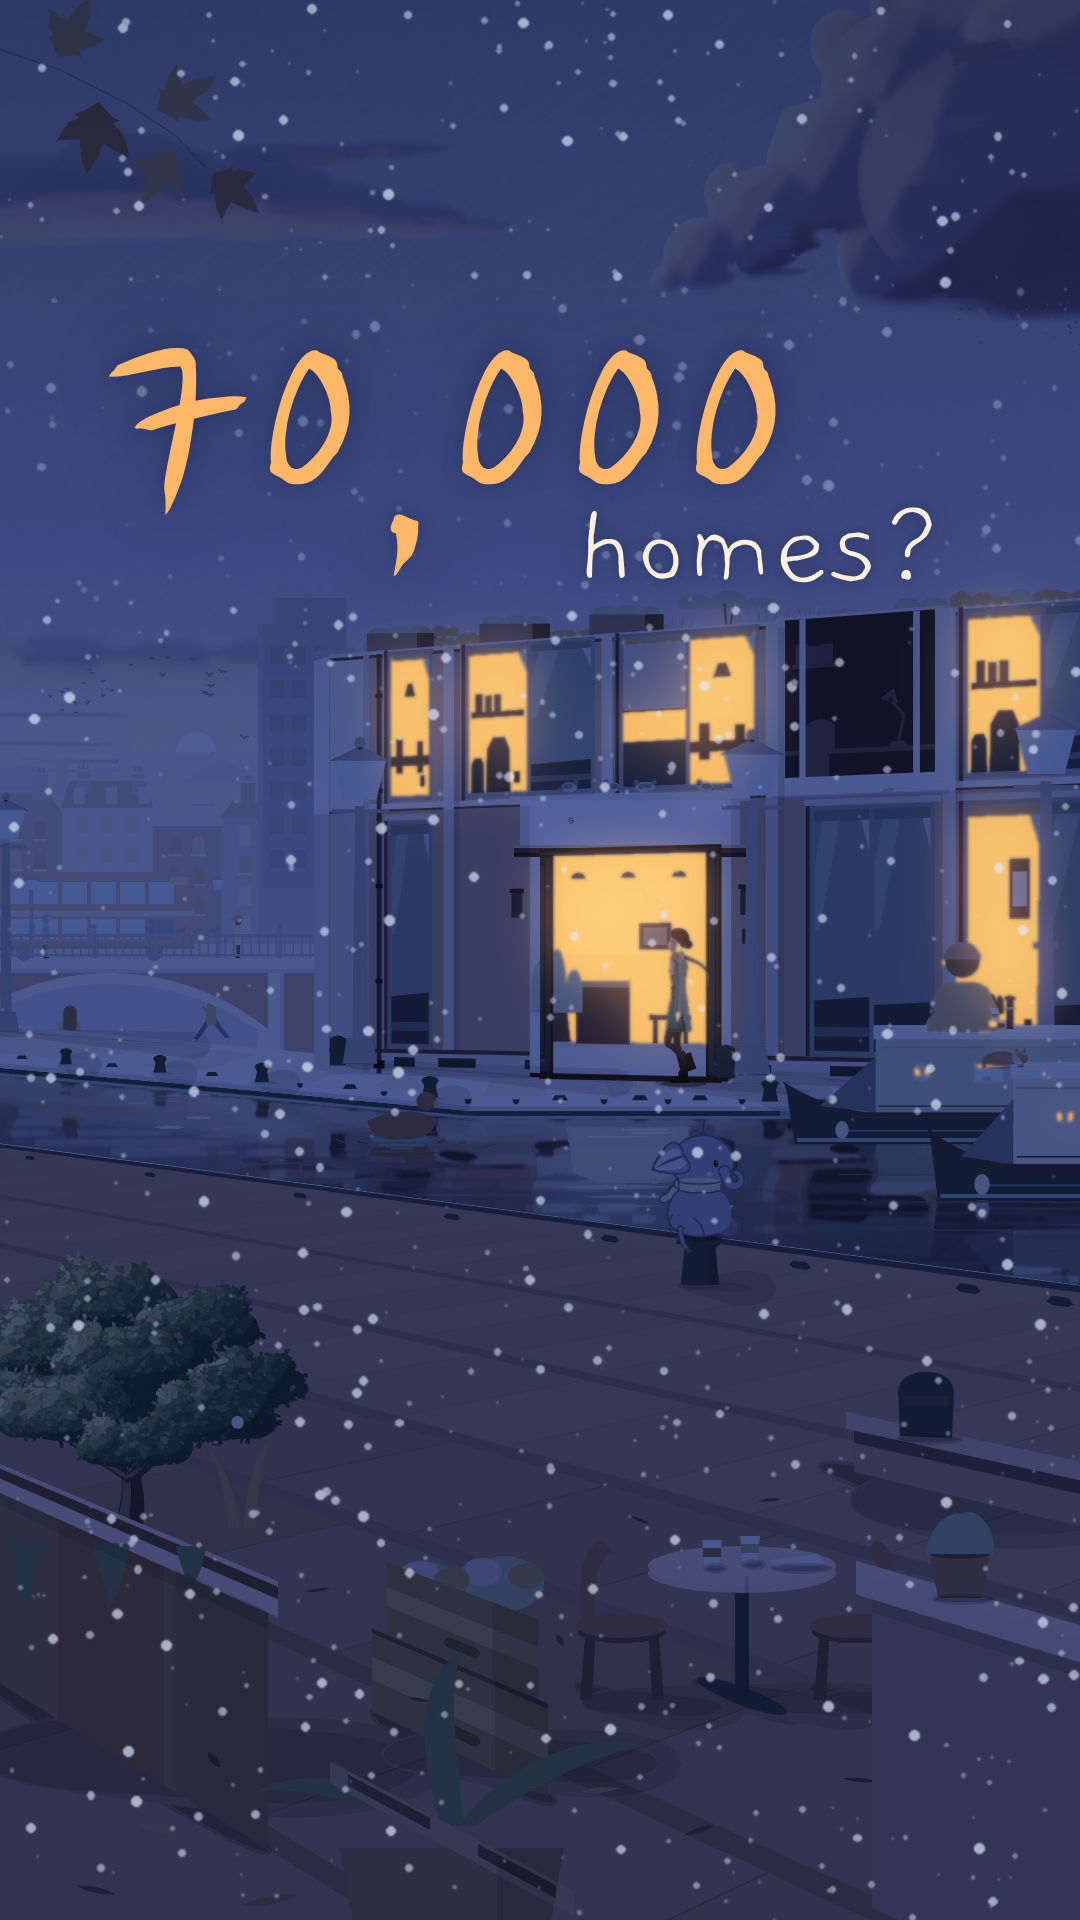
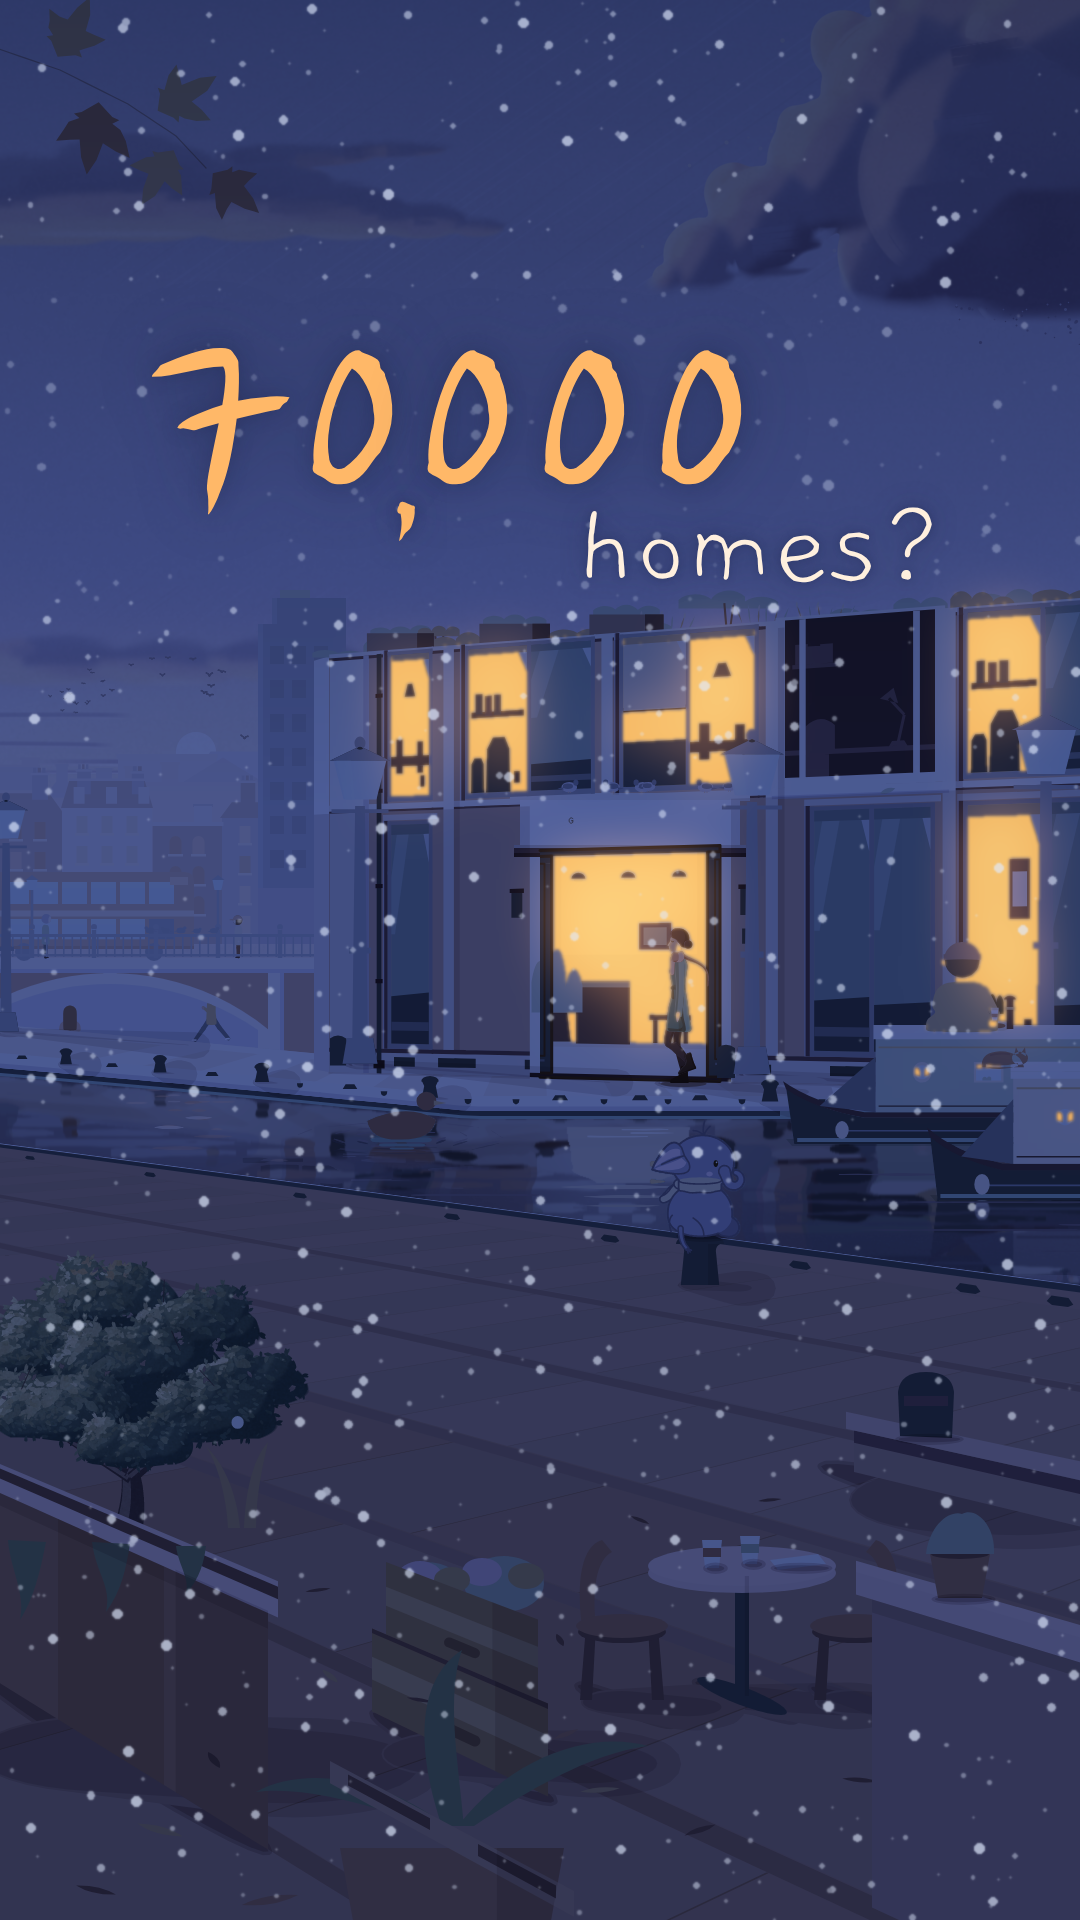
Type iteration: the agents' final guide, research and 14 stills; still 06's brush comma tucked in so "70,000" reads as one number (guide §i, STILLS.md, contact sheet rebuilt)
Claude-Session: https://claude.ai/code/session_01VwsUCnkJXFuq3YwEYFUg7o

Changed region(s): [[0.3972, 0.1562, 0.7333, 0.25], [0.0917, 0.1562, 0.3667, 0.2812], [0.3667, 0.25, 0.3972, 0.3125]]

diff --git a/video/scripts/type/stills/06_R3_big_number.html b/video/scripts/type/stills/06_R3_big_number.html
@@ -6,7 +6,11 @@
 // "70,000" pops 2.300 s (frame 138), "homes?" builds 3.383 s (frame 203), both on to 4.233 s
 window.__ready = TYPE.run(() => {
   const S = TYPE.stage(), tone = 'night';
-  TYPE.text(S, {t: '70,000', x: 440, y: 480, anchor: 'middle', role: 'brush', size: 300, tone, accent: true});
+  // the brush's own comma is wide with a long tail ("70 , 000" at a glance): the figures set as "70", a smaller comma
+  // tucked against them, then "000", the whole number centred near x 440 as before
+  const a = TYPE.text(S, {t: '70', x: 150, y: 480, anchor: 'start', role: 'brush', size: 300, tone, accent: true});
+  const c = TYPE.text(S, {t: ',', x: a.x1 + 8, y: 480, anchor: 'start', role: 'brush', size: 190, tone, accent: true});
+  TYPE.text(S, {t: '000', x: c.x1 + 14, y: 480, anchor: 'start', role: 'brush', size: 300, tone, accent: true});
   TYPE.text(S, {t: 'homes?', x: 930, y: 578, anchor: 'end', role: 'hand', size: 116, tone});
 });
 </script></body></html>

diff --git a/video/docs/look/TYPE_GUIDE.md b/video/docs/look/TYPE_GUIDE.md
@@ -261,9 +261,9 @@ Each example uses video 4's real words and times; a frame number is t x 60.
 - **`LAYOUT.md` §1, the "caption block (the ink)" row:** replace "Patrick Hand 98 px, baselines 387 / 510 (one line
   448), centred on x 520 (left of centre: clear of the rail), <= 850 px wide, <= 2 lines of ~20 characters; highlight
   boxes reach y 299" with "the words (`TYPE_GUIDE.md`): the hand (Gaegu 300 / 400) 116 px, baselines 395 / 515 (one
-  line 455), group centre on a seat x 440 / 520 / 600, a line <= 830 px, <= 2 baselines; a landing-word lockup at 365 /
-  495 / 598 (the brush, Nanum Brush Script 200 px); a number at 500 (260 px) over its unit at 600; no boxes; ink
-  inside y 290-610 in the band". Add a row **"type frame | y 290-1250; x 96-944 above y 840, x 96-860 below; ads x
+  line 455), group centre on a seat x 440 / 520 / 600, a line <= 830 px, <= 2 baselines; a landing-word lockup at 362 /
+  484 / 578 (the brush, Nanum Brush Script 184 px); a number at 480 (300 px) over its unit at 578; no boxes; ink
+  inside y 290-585 in the band". Add a row **"type frame | y 290-1250; x 96-944 above y 840, x 96-860 below; ads x
   120-888, y 288-1248, x <= 780 below y 840"**. In the row's rules, "ink >= 7:1 on its field" becomes ">= 4.5:1 for
   running words (7:1 where the sky allows), >= 3:1 for the brush". §5 (the cover): "the title in the caption type with
   the peach box on its key words" becomes "the core line in the hand with its key word in the brush, in the film's
@@ -288,26 +288,28 @@ Each example uses video 4's real words and times; a frame number is t x 60.
 ## h. THE STILL LIST (for job 2)
 All 1080 x 1920 with `scripts/type/render.mjs` (`--phone --ui`), backgrounds `{{BG_NIGHT}}` (video 4's key) and
 `{{BG_DUSK}}` (the light sky, for dark ink). The backgrounds are wides, so every still stands in for its shot's
-placement; never invent a new picture beyond what a note asks. Sizes, seats and times are §b-§e's.
+placement; never invent a new picture beyond what a note asks. Sizes, seats and times are §b-§e's. Rendered: the pages
+`scripts/type/stills/NN_*.html` (`bash scripts/type/stills/render_all.sh`), the results in `docs/look/type/stills/`
+(`STILLS.md`, `contact_sheet.jpg`).
 
 1. **BEFORE (our captions now).** S7 at 24.10 s: "But Helsinki / WANTS that heat." · Patrick Hand 98 px, umber
    #2B1B0A, two centred lines on x 520 at baselines 387 / 510, the peach box #F6B892 behind "WANTS" (square, 0.19 em
    padding, the word ink on peach) · `{{BG_DUSK}}` · Look at: how heavy and boxed it is, and the fixed band.
-2. **AFTER, the same moment: R4 the landing word.** "But Helsinki" (hand 400, 116 px, umber, baseline 365, from x
-   130) / **"WANTS"** (brush 200 px, burnt #8E3A12, baseline 495, from x 260) / "that heat." (hand, baseline 598,
-   right-aligned near x 920) · `{{BG_DUSK}}` · Look at: one painted word carrying the turn; compare with still 1.
+2. **AFTER, the same moment: R4 the landing word.** S7 at 24.70 s (all three rows on): "But Helsinki" (hand 400, 116
+   px, umber, baseline 362, from x 130) / **"WANTS"** (brush 184 px, burnt #8E3A12, baseline 484, from x 260) / "that
+   heat." (hand, baseline 578, right-aligned near x 920) · `{{BG_DUSK}}` · Look at: one painted word carrying the turn; compare with still 1.
 3. **THE HAND, three ways.** S2 at 4.50 s: "AI actually runs" in three bands of one still (each a 1080 x 600 crop of the
    band region, labelled small at the bottom-left), at one x-height (~45 px): Gaegu 300 116 px · Mali 300 90 px · Zen
    Kurenaido 400 106 px; warm white with the halo · `{{BG_NIGHT}}` · Look at: which hand feels like ours, and "AI"
    reading as "Al" in Zen Kurenaido.
-4. **R1 the everyday caption.** S2 at 6.00 s: "on giant / computers," (two baselines 395 / 515, line 1 from x 300,
-   line 2 from x 400, seat C), Gaegu 300 116 px, #FFF0DE, halo · `{{BG_NIGHT}}` · Look at: light and airy, yet read at a
+4. **R1 the everyday caption.** S2 at 6.00 s: "on giant / computers," (two baselines 395 / 515, line 1 from x 131,
+   line 2 from x 231, seat L), Gaegu 300 116 px, #FFF0DE, halo · `{{BG_NIGHT}}` · Look at: light and airy, yet read at a
    glance on the phone preview; the default look of most of the film.
 5. **R2 the hook.** S1 at 0.70 s: "Did you know" (line 1, from x 120, baseline 395) / "Helsinki" (line 2, from x
    400, baseline 525), Gaegu 300 136 px, #FFF0DE (frame 0 shows line 1 alone in the same place) · `{{BG_NIGHT}}` · Look
    at: big enough to stop a thumb, still calm.
-6. **R3 the big number.** S1 at 3.60 s: **"70,000"** (brush 260 px, amber #FFB868, baseline 500, centred near x 470)
-   over "homes?" (hand 116 px, baseline 600, right edge x ~900) · `{{BG_NIGHT}}` (its amber windows echo the figures)
+6. **R3 the big number.** S1 at 3.60 s: **"70,000"** (brush 300 px, amber #FFB868, baseline 480, centred near x 440)
+   over "homes?" (hand 116 px, baseline 578, right edge x ~930) · `{{BG_NIGHT}}` (its amber windows echo the figures)
    · Look at: the number reads first and feels part of the lit city.
 7. **R5 the tint, the same moment as still 2.** S7 at 24.70 s: the same three rows and positions as still 2, but
    "WANTS" in the hand (400, 116 px) tinted burnt #8E3A12 instead of the brush · `{{BG_DUSK}}` · Look at: stills 2 and
@@ -317,20 +319,46 @@ placement; never invent a new picture beyond what a note asks. Sizes, seats and 
    manner, words lettered into the open sky, the big last word.
 9. **R7 the word in the world.** S8 at 27.70 s: a small cream paper tag (~280 x 170 px, a slight swing angle of 3-4°,
    a pin, a soft contact shadow) on the lit building's facade near the doorway's top, on it **"2027"** in the brush
-   (umber, figures ~120 px tall); above in the band the caption "starting / next year." (R1, seat C) · `{{BG_NIGHT}}` ·
+   (umber, 148 px: figures ~66 px tall, fitted to the tag); above in the band the caption "starting / next year." (R1, seat C) · `{{BG_NIGHT}}` ·
    Look at: the year belongs to the place; the caption and the tag share the frame without repeating each other.
-10. **R9 the payoff.** S12 at 40.00 s: "So your chatbot" (hand 116, baseline 365, from x 130) / "could soon" (baseline
-    470, from x ~220) / **"heat"** (brush 200 px, amber, baseline 600, right-aligned near x 900) · `{{BG_NIGHT}}` ·
+10. **R9 the payoff.** S12 at 40.00 s: "So your chatbot" (hand 116, baseline 390, from x 110) / "could soon" + **"heat"**
+    (row 2, baseline 545, from x 120; "heat" brush 184 px, amber, 50 px after "soon", at its swell's peak 1.04) · `{{BG_NIGHT}}` ·
     Look at: the core line landing on its one warm word.
-11. **R10 the cover.** The cover: "Your chatbot / could **heat** / an apartment / in Helsinki." (hand 300, 120 px;
-    "heat" brush 260 px amber; ragged, stepped, left edge x ~110) on `{{BG_NIGHT}}` shifted down ~180 px (the sky
+11. **R10 the cover.** The cover: "Your chatbot / could **heat** / an apartment / in Helsinki." (hand 300, 112 px;
+    "heat" brush 250 px amber; ragged, stepped, left edge x ~110, baselines 365 / 530 / 624 / 733) on `{{BG_NIGHT}}` shifted down ~180 px (the sky
     extended at the top in its own colour, so the open sky reaches y ~780, standing in for a cover frame composed with
     more sky); no captions · also judge it at 360 px wide · Look at: one series look on the grid; read at tile size.
-12. **R10 in the posters' caps (the comparison).** The same cover in Jost 300 ALL CAPS, +12 % tracking, warm white
-    #FFF0DE, centred rows sized to fit x 96-944 ("YOUR CHATBOT / COULD HEAT / AN APARTMENT / IN HELSINKI."),
+12. **R10 in the posters' caps (the comparison).** The same cover in Jost 300 96 px ALL CAPS, +12 % tracking, warm white
+    #FFF0DE, centred rows (baselines 375 / 500 / 625 / 750) inside x 96-944 ("YOUR CHATBOT / COULD HEAT / AN APARTMENT / IN HELSINKI."),
     "HEAT" in amber · the same shifted `{{BG_NIGHT}}` · Look at: stills 11 and 12: the painted hand or the posters'
     geometric caps.
 13. **Three groups in a row (the seats walking).** S2, 4.50 / 6.00 / 7.00 / 8.00 s as four 540 x 960 frames in a 2 x 2
-    grid on one still: "AI actually runs" (seat L) · "on giant / computers," (seat C) · "in buildings / called" (seat
-    R) · "data centers." (seat C), R1 throughout · `{{BG_NIGHT}}` · Look at: alive but steady: the words move less than
-    220 px, so the eye never hunts.
+    grid on one still: "AI actually runs" (seat C: at 789 px it fits no other) · "on giant / computers," (seat L) ·
+    "in buildings / called" (seat R) · "data centers." (seat C), R1 throughout · `{{BG_NIGHT}}` · Look at: alive but
+    steady: the words move less than 220 px, so the eye never hunts.
+14. **R4's brush write-on, mid-stroke (added by the stills, for RESEARCH open question 3).** S7 at 24.10 s: "But
+    Helsinki" (row 1, as still 2) and **"WANTS"** 7.6 of its 12 frames in (70 % painted after ease-in-out: "WAN" and the
+    T's first stroke), the paint advancing left to right behind a dry brush edge (an approximation: the real write-on
+    follows each letter's strokes); "that heat." not yet on · `{{BG_DUSK}}` · Look at: painted, or the clipped reveal
+    the owner ruled out?
+
+## i. Changes from the stills (2026-10-30, job 2: looked at on the phone preview and under the UI)
+- **The brush's comma** (the orchestrator, after the run): Nanum Brush Script's comma is wide with a long tail, so
+  "70,000" read "70 , 000" at a glance; R3 sets a number's comma in the brush at ~0.63 of the figures' size, tucked
+  8-14 px from the figures on each side (still 06).
+- **The band's floor:** ink stays at y <= 585, not 610: the third rows at 598-600 (R3, R4, R9) sat on the roofline
+  (~590-600) at phone size. R4's lockup moved to baselines 362 / 484 / 578 and its brush to 184 px (1.6x the hand;
+  three rows with a 200-px brush need ~330 px, the band has ~295); R3's figures to 480, its unit word to 578.
+- **The brush's real size:** its figures are 0.45 em, so 260 px gave 118-px figures (not ~165) and the number did not
+  read first: R3 is now 300 px (figures ~136 px), centred near x 440 with the unit word's edge at x ~930, so the
+  brush comma's long tail stays clear of "homes?". A world word is 140-160 px (LAYOUT's "one number 120-160 px" is a
+  font size): "2027" at 148 px (figures ~66 px) fits the ~280 x 170 tag and reads at phone size.
+- **R9 is two rows** (390 / 545, "heat" last on row 2): with three rows the brush word sat on the roof, and lifting it
+  ran its tall "h" into "soon".
+- **Seats:** "AI actually runs" (789 px) fits only seat C inside x 96-944 (at seat L its ink began at x 46), so the walk
+  is C, L, R, C and R1's example ("on giant / computers,") sits on seat L, from x 131 / 231; the old "from x 300 / 400"
+  centred the group at x ~610, not seat C.
+- **R6:** a 0.48 em space before "tea." (at 0.3 em, "of" and "tea." ran together on the phone).
+- **R10:** the cover stack shrank a step (the hand 112 px, the brush 250 px; the caps 96 px) so all four rows sit in the
+  open sky above the roofs (y ~780 on the shifted frame).
+- **Still 14 added:** the brush write-on mid-stroke, so open question 3 is judged on a picture.

diff --git a/video/scripts/type/README.md b/video/scripts/type/README.md
@@ -7,17 +7,24 @@ frames, with a phone-size preview and a platform-UI overlay, so a recipe is judg
 |---|---|
 | `fonts.json` | the candidate fonts (@fontsource slugs: Google Fonts, OFL or Apache), grouped hand / script / display |
 | `fetch_fonts.py` | downloads them into `.fonts/<slug>/` (latin woff2, metadata, licence; gitignored) and writes `.fonts/index.json`; `--list` prints each family's CSS name and weights; `python3 scripts/type/fetch_fonts.py <slug>` adds one (put it in fonts.json too) |
-| `backgrounds.py` | makes `bg/bg_dusk.png` (the latest look still, scene-1 painter v6, with its burned-in caption painted out) and `bg/bg_night.png` (the same re-graded to video 4's key: a cold blue snowy night, warm windows); stand-ins until video 4's art exists, never film assets |
-| `render.mjs` | HTML page or JSON spec -> PNG at 1080 x 1920 (Node + the pre-installed Playwright); every cached font is declared, so CSS just names the family; `--phone` writes `<out>_phone.jpg` (360 px wide), `--ui` writes `<out>_ui.jpg` (a generic app UI over the frame at our zones: top y < 180, bottom y > 1520, right rail x > 950 at y 900-1500), `--zones` tints those zones red |
+| `backgrounds.py` | makes `bg/bg_dusk.png` (the latest look still, scene-1 painter v6, with its burned-in caption painted out), `bg/bg_night.png` (the same re-graded to video 4's key: a cold blue snowy night, warm windows) and `bg/bg_night_cover.png` (the night frame shifted down 180 px, the cut leaves painted out, the sky extended above: a cover frame with more sky); stand-ins until video 4's art exists, never film assets |
+| `render.mjs` | HTML page or JSON spec -> PNG at 1080 x 1920 (Node + the pre-installed Playwright); every cached font is declared, so CSS just names the family; `--phone` writes `<out>_phone.jpg` (360 px wide), `--ui` writes `<out>_ui.jpg` (a generic app UI over the frame at our zones: top y < 180, bottom y > 1520, right rail x > 950 at y 900-1500), `--zones` tints those zones red; `--mask` also writes `<out>_mask.png` (the words only: elements with class `ink`, white on black, no halo), `<out>_bare.png` (the words hidden) and `<out>_layout.json` (each word's ink box, from `lib/type.js`); a page that lays itself out in JS sets `window.__ready` and the renderer waits for it |
+| `lib/type.js` | the type guide's system as an SVG layout helper for still pages: every word an SVG `<text>` placed by its BASELINE and its INK edge (start / centre / end, canvas-measured), the roles (`hand` = Gaegu, `brush` = Nanum Brush Script), the tones (night: warm white + the halo filter; light: umber), the accent, the seats (`TYPE.group`: a group's ink box centred on L 440 / C 520 / R 600, line 2 stepped right), a swell `scale`, `rotate`, a `parent` group (a word riding a tag, a masked write-on); `TYPE.run(fn)` loads the faces before measuring |
+| `stills/` | the type stills' pages (`NN_<recipe>.html`, one per still in `TYPE_GUIDE.md` §h) and `render_all.sh [NN ...]`: renders them to `out/` (with `--phone --ui --mask`) and copies `NN_<recipe>.png` + `_ui.jpg` to `docs/look/type/stills/` |
+| `check_stills.py` | the guide's §f numbers on each rendered still: every word's ink box, the type frame (y 290-1250; x 96-944, x 96-860 below y 840), the gap to the row above (column by column), and its contrast against the frame's own pixels within 20 px of its glyphs (>= 4.5:1 the hand, >= 3:1 the brush); taste stays with the phone look |
+| `contact_sheet.py` | every still in `docs/look/type/stills/` at the 0.25 glance scale (270 x 480), 7 a row, labelled -> `contact_sheet.jpg` |
 
 ```bash
 python3 scripts/type/fetch_fonts.py            # once per container (about 1 min)
 python3 scripts/type/backgrounds.py            # once (about 15 s)
 node scripts/type/render.mjs spec.json --phone --ui
 node scripts/type/render.mjs page.html docs/look/type/stills/01_x.png --phone --ui --zones
+bash scripts/type/stills/render_all.sh        # every still page -> out/ + docs/look/type/stills/ (about 1 min)
+python3 scripts/type/check_stills.py          # the numbers (ink box, type frame, row gaps, contrast)
+python3 scripts/type/contact_sheet.py         # docs/look/type/stills/contact_sheet.jpg
 ```
 
-**HTML pages:** a 1080 x 1920 stage at 1x; `{{BG_DUSK}}`, `{{BG_NIGHT}}`, `{{REPO}}` become file:// URLs. Anything
+**HTML pages:** a 1080 x 1920 stage at 1x; `{{BG_DUSK}}`, `{{BG_NIGHT}}`, `{{BG_NIGHT_COVER}}`, `{{REPO}}` become file:// URLs. Anything
 CSS or inline SVG can draw works: a two-baseline lockup, a word on an SVG path, a partly drawn write-on (a clip or a
 stroke-dash on outlined text), a soft local shadow. **JSON specs:** see the header of `render.mjs` (text layers with
 font, weight, size, tracking, colour, position by baseline, rotation, shadow; or raw HTML layers).

diff --git a/video/docs/look/type/stills/STILLS.md b/video/docs/look/type/stills/STILLS.md
@@ -15,7 +15,7 @@ Brush Script, warm white #FFF0DE or umber #2B1B0A, the one accent amber #FFB868 
 | 03 | the hand, three ways | S2 at 4.50 s: "AI actually runs" at one x-height (~46 px): Gaegu Light 116 px / Mali Light 90 px / Zen Kurenaido 106 px | which hand feels like ours (Gaegu warmer and hand-made, Mali cleaner); Zen Kurenaido reads "Al", so it is out |
 | 04 | R1 the everyday caption | S2 at 6.00 s: "on giant / computers," (5.28-6.47 s), Gaegu Light 116 px, two staggered lines on seat L | light and airy, yet read at a glance on the phone: the look of ~70 % of the film |
 | 05 | R2 the hook | S1 at 0.70 s: "Did you know" (on screen from frame 0) / "Helsinki" (pops 0.60 s), Gaegu Light 136 px | big enough to stop a thumb, still calm; frame 0 shows line 1 alone in the same place |
-| 06 | R3 the big number | S1 at 3.60 s: **"70,000"** (2.30 s, the brush 300 px, amber) over "homes?" (3.38 s) | the number reads first and feels part of the lit city; the brush comma's long tail is the font's own |
+| 06 | R3 the big number | S1 at 3.60 s: **"70,000"** (2.30 s, the brush 300 px, amber) over "homes?" (3.38 s) | the number reads first and feels part of the lit city (the brush's wide comma set smaller and tucked in, so it reads as one number) |
 | 07 | R5 the tint | S7 at 24.70 s: the same rows as 02, but "WANTS" in the hand (116 px), tinted burnt | 02 or 07: the painted landing word or the quiet tint? |
 | 08 | R6 the lettered phrase | S5 at 18.70 s: "That's a lot" (17.72 s, 150 px) / "of" (18.42) **"tea."** (18.58, 190 px) | ref 1's manner: words lettered into the open sky, the big last word landing with the mug |
 | 09 | R7 the word in the world | S8 at 27.70 s: caption "starting / next year." (27.03-28.30 s, seat C); a paper tag over the doorway with **"2027"** in the brush (148 px, umber), swung on at "next" (27.40) | the year belongs to the place; the caption and the tag share the frame without repeating a word |
